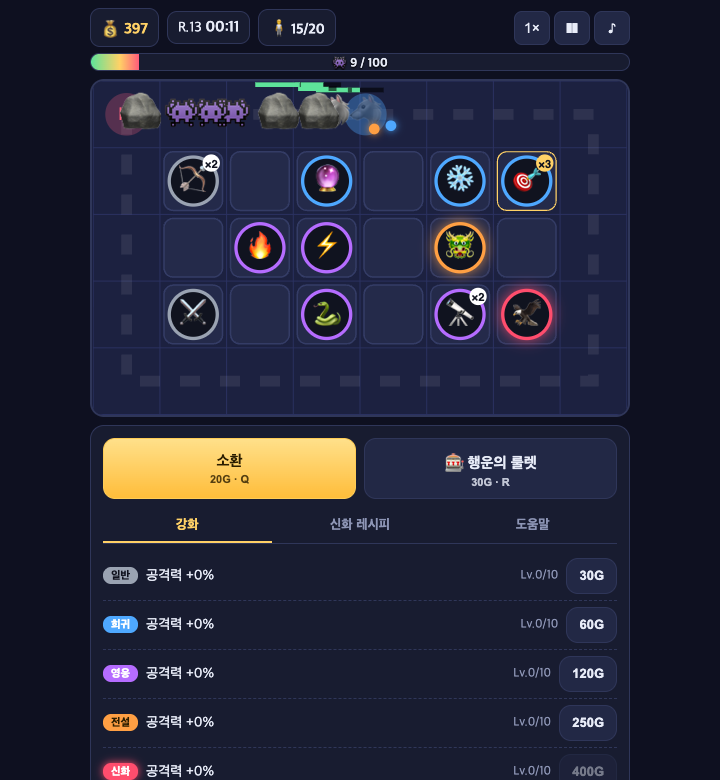
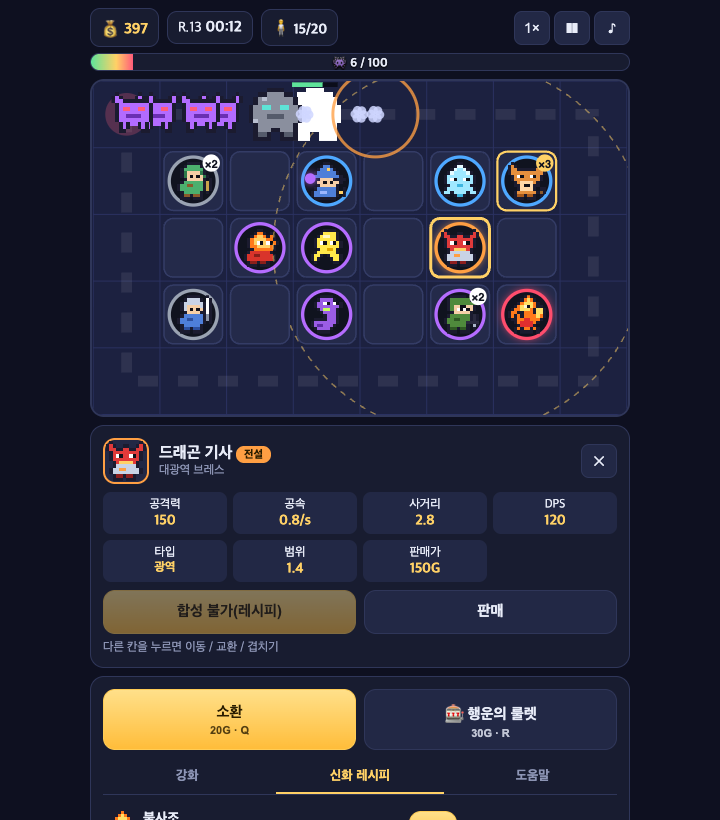
픽셀 아트 스프라이트 적용: docs 갱신

diff --git a/docs/DESIGN.md b/docs/DESIGN.md
@@ -50,7 +50,7 @@
 ## 5. 컴포넌트
 - **버튼**: 둥근 모서리 12px, 기본 `--panel-2`, 주요 CTA는 골드 그라데이션 + 어두운 글자. 비활성은 투명도 0.45.
 - **등급 뱃지**: 등급 색 배경 + 흰 글자, 신화는 `box-shadow` 글로우 펄스.
-- **유닛 칩(보드)**: 등급색 테두리 원 + 이모지, 우상단 스택 수(×2, ×3), 3스택은 금색 테두리 점멸("합성 가능").
+- **유닛 칩(보드)**: 등급색 테두리 원 + 픽셀 스프라이트, 우상단 스택 수(×2, ×3), 3스택은 금색 테두리 점멸("합성 가능").
 - **토스트**: 하단 중앙, 1.4초 페이드. 소환 결과/오류 메시지.
 - **배너**: 라운드 시작·보스 등장·승/패. 중앙 큰 글자, 0.8초 등장 애니메이션.
 
@@ -64,3 +64,9 @@
 - 모든 조작은 터치 1탭으로 가능(드래그 불필요). 버튼 최소 44×44px.
 - `prefers-reduced-motion` 시 펄스/파티클 최소화.
 - 가로 모드 PC: 보드 최대 640px, 하단 패널은 그대로 아래 배치(스크롤 없이 1080p에 전부 노출).
+
+## 8. 픽셀 아트 스프라이트 (`js/sprites.js`)
+- 유닛 12×12, 보스 16×16 문자열 그리드. `'.'`은 투명, `o`는 공통 외곽선(`#1b1b2f`), `W/k/s/r/y`는 공통 팔레트(흰색·검정·피부·빨강·금색), 나머지 문자는 스프라이트별 팔레트.
+- 등급이 오를수록 실루엣이 커지고 색이 선명해진다: 일반은 2~3색의 작은 인간형, 영웅은 원소 생물, 전설은 장식(뿔·후광·지팡이), 신화는 보드 전체에서 눈에 띄는 보색 대비.
+- 렌더는 `imageSmoothingEnabled = false` + CSS `image-rendering: pixelated`로 픽셀이 뭉개지지 않게 확대. 피격 시 흰색 단색 틴트 변형을 2프레임 표시.
+- 미리보기: `tools/sprites-sheet.html`

diff --git a/docs/GDD.md b/docs/GDD.md
@@ -9,7 +9,7 @@
 
 ## 2. 플랫폼 / 기술
 - 브라우저(PC·모바일) 정적 웹 — Vanilla JS(ES Modules) + Canvas 2D + HTML UI
-- 외부 라이브러리·에셋·빌드 도구 없음. 유닛/몬스터 그래픽은 이모지 + 코드 드로잉, 효과음은 WebAudio 합성
+- 외부 라이브러리·에셋·빌드 도구 없음. 유닛/몬스터는 12×12(보스 16×16) 픽셀 아트 스프라이트를 코드로 생성, 효과음은 WebAudio 합성
 - 세로형(모바일) 우선 레이아웃, PC에서는 가운데 정렬 카드 형태
 
 ## 3. 코어 루프
